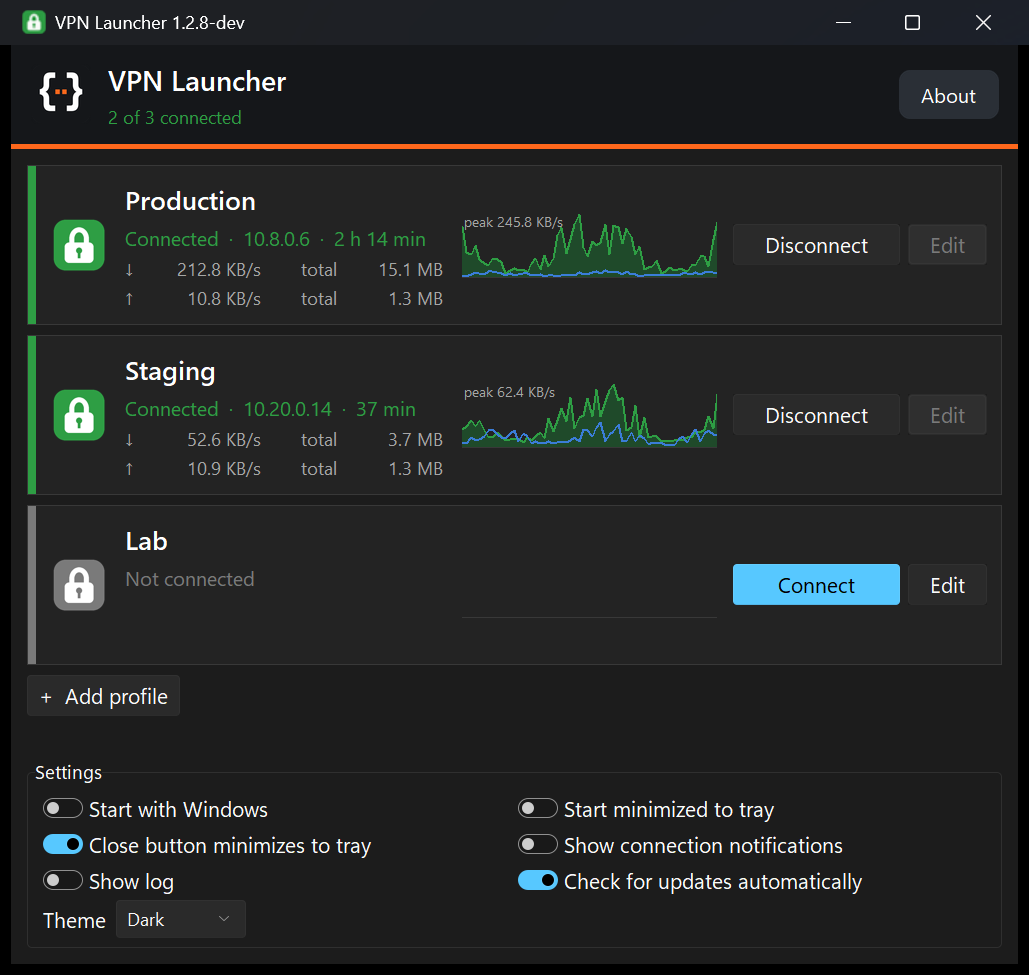
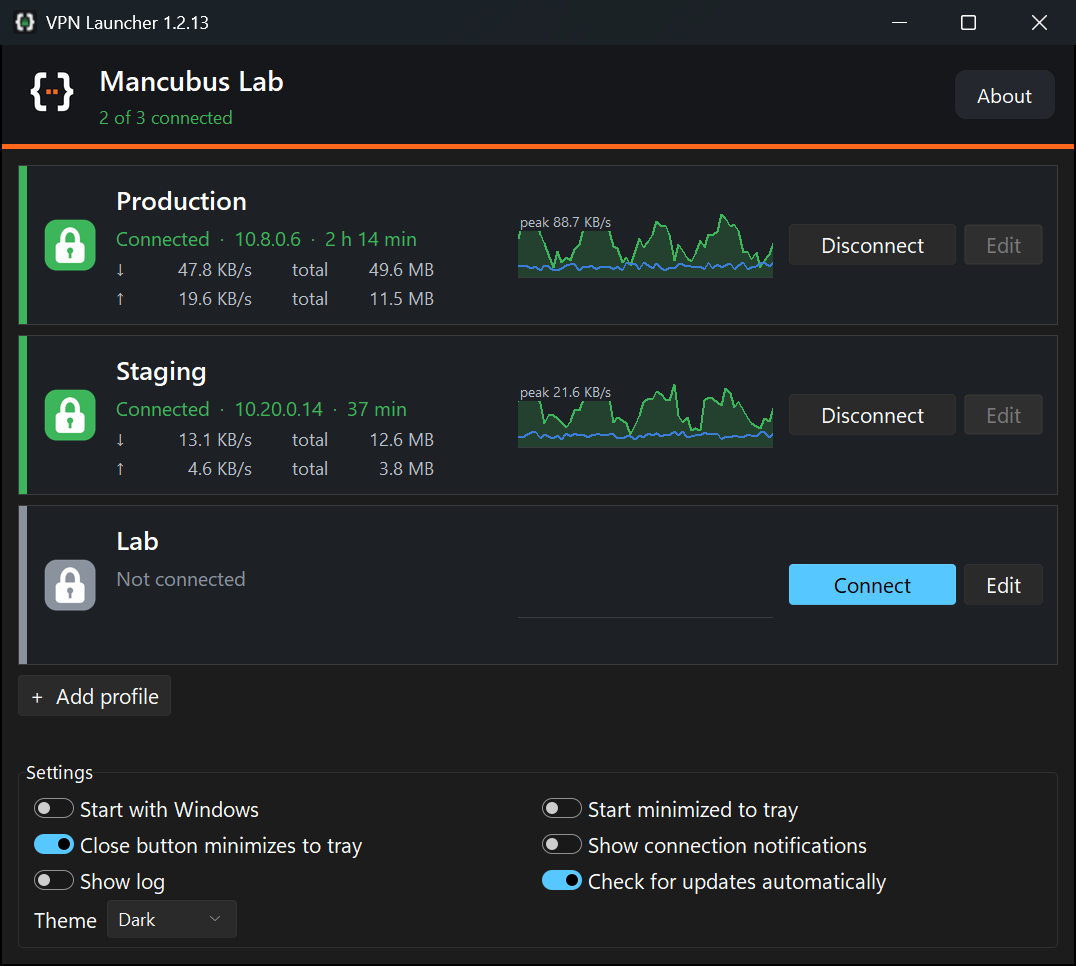
Start the peak label backing at the graph's left edge, new screenshots
The lines start at x 0, left of the label: the backing now covers them there too. README screenshots show 1.2.13 in both themes.

diff --git a/src/vpn_launcher.py b/src/vpn_launcher.py
@@ -1379,7 +1379,8 @@ def main():
         # The scale of the graph: its highest value in the window shown.
         label = graph.create_text(2, 0, anchor="nw", text=f"peak {format_bytes(peak)}/s", fill=ui["muted"],
                                   font=("Segoe UI", 7))
-        graph.tag_lower(graph.create_rectangle(graph.bbox(label), fill=ui["card"], outline=""), label)  # over the lines
+        _, _, right, bottom = graph.bbox(label)  # the backing starts at the left edge, where the lines start too
+        graph.tag_lower(graph.create_rectangle(0, 0, right + 2, bottom, fill=ui["card"], outline=""), label)
 
     hint = ttk.Label(frame, text="" if profiles else "No profiles yet: add one to get started.",
                      foreground="gray", wraplength=360)
